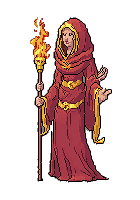
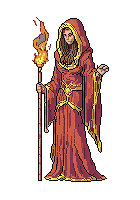
Portrait cleanup (portrait_fix.py): originals kept in reference/portraits_original, clean versions in reference/portraits_clean; inventor sprite in a bustle dress

Changed region(s): [[0.2, 0.06, 0.8, 0.93]]

diff --git a/tools/portrait_fix.py b/tools/portrait_fix.py
@@ -1,0 +1,90 @@
+"""Cleans up the class-select portraits (hands, duplicated limbs) by redrawing each original
+with bitforge, using the original as the init image so the composition stays.
+
+The untouched originals are kept in reference/portraits_original/.
+
+    python tools/portrait_fix.py            two variants per portrait -> generated/portrait_fix/
+    python tools/portrait_fix.py review     side-by-side sheet: generated/portrait_fix/review.png
+"""
+import sys
+from pathlib import Path
+
+sys.path.insert(0, str(Path(__file__).resolve().parent))
+import gen  # noqa: E402
+import pixellab  # noqa: E402
+
+REF = Path(__file__).resolve().parent.parent / "reference" / "portraits_original"
+OUT = gen.GEN / "portrait_fix"
+ANATOMY = "anatomically correct, exactly two arms, exactly two hands with five fingers, exactly two legs, clean hands"
+NEGATIVE = "extra hands, extra fingers, extra arms, extra legs, duplicated limbs, floating hands, deformed hands, text, watermark, nudity, chibi, big head"
+
+PORTRAITS = {
+    "vampire": (
+        "vampire_portrait.png",
+        "glamorous goth vampire woman in a plum velvet gown in front of a moonlit gothic castle, long black hair, pale skin, "
+        "one hand resting on her hip, the other hand at her side holding the gown",
+    ),
+    "sorceress": (
+        "sorceress_portrait.png",
+        "fire sorceress in a long red hooded robe with gold trim, holding a wooden staff with a burning ember in her right hand, "
+        "her left hand open with a small flame above the palm, plain grey background",
+    ),
+    "inventor": (
+        "inventor_portrait.png",
+        "steampunk goth woman inventor with dark auburn curls and a small tilted top hat with brass goggles, brown corset dress "
+        "with a leg slit, black lace-up boots, one brass clockwork mechanical arm holding an ornate brass ray pistol, "
+        "hand on hip, standing on two legs, plain grey background",
+    ),
+}
+
+
+def fix(name, src, desc, strength):
+    body = {
+        "description": f"{desc}, {ANATOMY}, cel shading, bold outlines, {gen.STYLE}",
+        "image_size": {"width": 140, "height": 200},
+        "no_background": False,
+        "outline": "single color black outline",
+        "shading": "flat shading",
+        "detail": "highly detailed",
+        "view": "side",
+        "init_image": pixellab.b64img(REF / src),
+        "init_image_strength": int(strength),
+        "negative_description": NEGATIVE,
+    }
+    r = gen.call("POST", "/create-image-bitforge", body)
+    gen.log_charge(f"portrait fix {name} {strength}", r.get("usage"))
+    OUT.mkdir(parents=True, exist_ok=True)
+    gen.save_b64(r["image"], OUT / f"{name}_s{strength}.png")
+    print("saved", name, strength, flush=True)
+
+
+def review():
+    from PIL import Image
+    rows = []
+    for name, (src, _) in PORTRAITS.items():
+        ims = [Image.open(REF / src).convert("RGBA")] + [Image.open(p).convert("RGBA") for p in sorted(OUT.glob(f"{name}_s*.png"))]
+        w = sum(i.width for i in ims) + 8 * len(ims)
+        row = Image.new("RGBA", (w, 200), (40, 36, 44, 255))
+        x = 0
+        for i in ims:
+            row.alpha_composite(i, (x, 0))
+            x += i.width + 8
+        rows.append(row)
+    sheet = Image.new("RGBA", (max(r.width for r in rows), 208 * len(rows)), (40, 36, 44, 255))
+    for k, r in enumerate(rows):
+        sheet.alpha_composite(r, (0, k * 208))
+    sheet.resize((sheet.width * 2, sheet.height * 2), Image.NEAREST).save(OUT / "review.png")
+    print("saved", OUT / "review.png")
+
+
+if __name__ == "__main__":
+    if sys.argv[1:] == ["review"]:
+        review()
+    else:
+        for name, (src, desc) in PORTRAITS.items():
+            for strength in (300, 200):
+                gen.call  # noqa: B018 (keeps the import obviously used)
+                try:
+                    fix(name, src, desc, strength)
+                except Exception as e:  # noqa: BLE001
+                    print("FAILED", name, strength, str(e)[:200], flush=True)

diff --git a/tools/inventor_art.py b/tools/inventor_art.py
@@ -13,9 +13,9 @@ import gen  # noqa: E402
 
 HEADS = "small head, realistic adult body proportions, long legs"
 SPRITE = (
-    "steampunk woman inventor with long dark auburn curly hair, a small tilted black top hat with brass goggles, "
-    "brown leather corset over a black blouse, long black and oxblood bustle skirt, black lace-up boots, "
-    "one mechanical brass clockwork arm, holding an ornate brass ray pistol"
+    "steampunk woman inventor wearing a long floor-length black and oxblood Victorian bustle dress that covers her legs, "
+    "with a brown leather corset over it, long dark auburn curly hair, a small tilted black top hat with brass goggles, "
+    "one mechanical brass clockwork arm holding an ornate brass ray pistol, no trousers"
 )
 
 ANIMS = [

diff --git a/tools/pack.py b/tools/pack.py
@@ -370,7 +370,9 @@ def pack_items():
         items.append({"name": n, "file": f"{n}.png"})
         print("item", n, im.size)
     # Class-select portraits (tools/vampire_art.py): full size; a flat grey background is keyed out.
-    for n, src in [("portrait_vampire", "vampire/portrait.png"), ("portrait_sorceress", "vampire/portrait_sorceress.png")]:
+    # Cleaned-up versions (tools/portrait_fix.py); originals live in reference/portraits_original/.
+    for n, src in [("portrait_vampire", "portrait_fix/vampire_s200.png"), ("portrait_sorceress", "portrait_fix/sorceress_s300.png"),
+                   ("portrait_inventor", "portrait_fix/inventor_s300.png")]:
         p = GEN / src
         if not p.exists():
             continue
